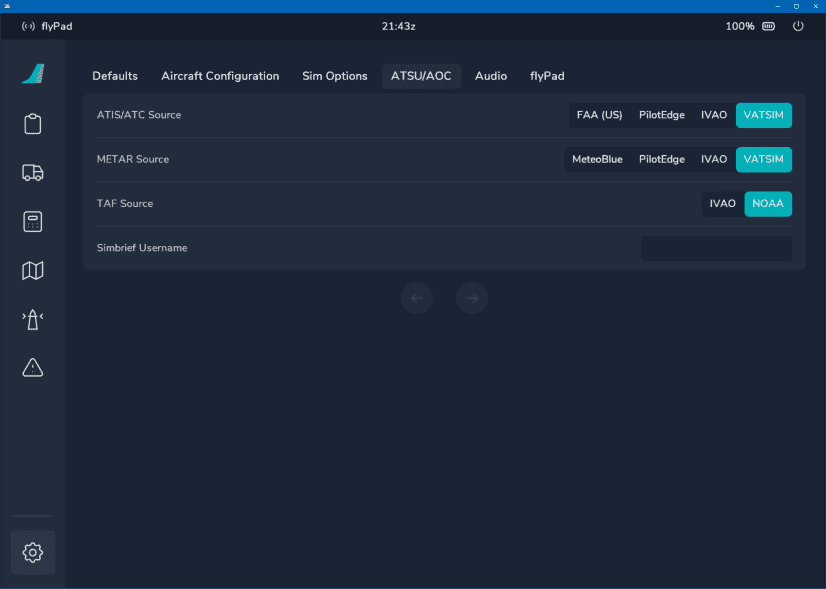
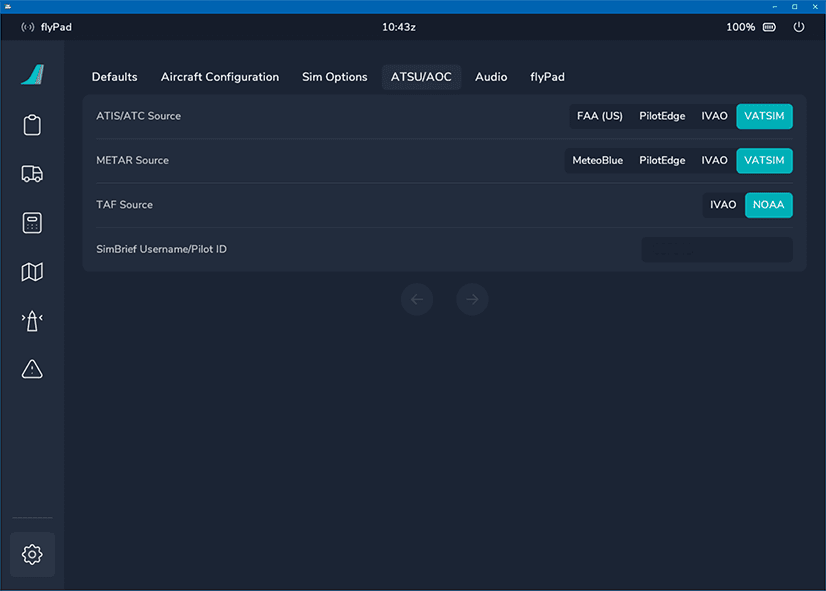
feat: simbrief integration guide (#224)
* feat: simbrief integration guide

Removed ... from beginner guide nav

Fixes from review

minor updates to simbrief.md page

Changed and moved images for simbrief.md

comment out simbrief MCDU setup

update feature-guides index.md

warning about msfs fuel and weights - simbrief.md

add simbrief MCDU fuel + w&b tutorial information

refactor: simbrief.md layout and typos

move simbrief integration bg -> dedicated feature guide

typo

Remove the note that usernames cannot contain spaces.

Not required any longer after PR.

Adding content to new simbrief guide

Adding new EFB Setup docs and links to new simbrief guide

Update to EFB guide->settings (simBrief Integration)

Adding content to new simbrief guide

New page for feature guide simBrief Integration

* add button to installation.md linking to simbrief.md

* highlight do not need to remain in pax boarding section

* Added custom css into extra.css for highlighting

* Revert "Added custom css into extra.css for highlighting"

This reverts commit cd34319f00e0d73f6ad6aec0761bb2aac8f98d81.

diff --git a/docs/fbw-a32nx/feature-guides/simbrief.md b/docs/fbw-a32nx/feature-guides/simbrief.md
@@ -1,0 +1,154 @@
+# SimBrief Integration
+
+## Flight Planning
+
+Flying IFR (Instrument Flight Rules) even in a simulation like Microsoft Flight Simulator always requires some level of flight planning.
+
+In addition to the obvious route planning there are several other aspects which are critical to any good flight plan:
+
+- Route Planning
+    - Origin and Destination
+    - Runways, SID and STAR
+    - Compliance with ATC Requirements
+    - Routing and Constraints
+- Fuel Calculation
+- Weather Forecast
+- Cost and Time Optimization
+
+See [Flight Planning](https://en.wikipedia.org/wiki/Flight_planning){target=new} on Wikipedia for more information.
+
+Microsoft Flight Simulator tries to offer a simple way to do route planning (World Map before starting a flight) however this falls short, especially for users wanting a more realistic experience for airliner flying.
+
+In real life airlines and pilots use dedicated software alongside various sources and services for creating their flight plans.
+
+In the world of flight simulation simBrief does all that for the users based on real word databases and sources. SimBrief provides on average ~40.000 flight plans to users each day and is the most commonly used tool for flight planning for non-professional flight simulation.
+
+It is absolutely possible to use the simBrief OFP (Operational Flight Plan) to configure and program the aircraft based on it without any special integration into the flight sim software or aircraft.
+
+But as in real world aircraft it is common in flight simulation aircraft to integrate these systems directly with the aircraft's flight management system to be able to import all the relevant planning data. This includes the route, altitudes, constraints, fuel, payload (passengers, cargo), and other data points.
+
+This is why FlyByWire has implemented our simBrief integration and will continue to improve this experience even further in the future.
+
+### Flight Planning with SimBrief
+
+This is best explained by simBrief itself - [simBrief User Guide](https://www.simbrief.com/system/guide.php){target=new}
+
+---
+
+## Using the flyPad simBrief Integration
+
+### Setup A32NX simBrief Integration
+
+See [Setup simBrief Integration](flyPad/settings.md#simbrief-integration)
+
+### Importing the simBrief OFP to the flyPad
+
+See [flyPad Guide - Load from simBrief](flyPad/dashboard.md#load-from-simbrief)
+
+See [flyPad Guide - OFP](flyPad/dispatch.md#ofp-page) on how to view the simBrief Operational Flight Plan.
+
+---
+
+## Using the FMS (MCDU) and simBrief Integration
+
+### Importing the simBrief OFP to the FMS (MCDU)
+
+We've included a quick method to have your simBrief OFP automatically loaded into the MCDU. Please do not select an arrival airport on the MSFS world menu otherwise the integration will not work.
+
+This portion of the guide assumes that you understand how to generate a simBrief OFP.
+
+<!--#### ^^SimBrief MCDU Setup^^
+
+Enter your simBrief username. Upon entering your username the MCDU will convert it into an ID number. Please ensure you have no special characters in your username OR use the ID number found before generating your OFP.
+
+* Click on `MCDU MENU`
+* Click on `OPTIONS`
+* Click on `AOC`
+* Click on `SIMBRIEF`-->
+
+#### ^^Request Data from simBrief^^
+
+* Return to `MCDU MENU`
+* Click on `ATSU`
+* Click on `AOC MENU`
+* Click on `INIT/PRESS`
+* Click on `INIT DATA REQ`
+
+![MCDU ATSU AOC INIT REQ](../../fbw-a32nx/assets/feature-guides/simbrief/mcdu2.png "MCDU ATSU AOC INIT REQ"){loading=lazy}
+
+This will prepare the MCDU to input the flight plan.
+
+#### ^^Initialize Flight Plan^^
+
+Head over to the `INIT A` page.
+
+* Select `INIT REQUEST` by pressing LSK2R
+
+This will load your flight plan from simBrief directly into the MCDU
+
+![MCDU INIT A](../../fbw-a32nx/assets/feature-guides/simbrief/mcdu1b.png "MCDU INIT A"){loading=lazy}
+
+To learn how to set up the MCDU you can read the [**^^F^^**LIGHT PLAN](../../pilots-corner/beginner-guide/preparing-mcdu.md#flight-plan) section in our beginner's guide.
+
+### Loading Fuel and Weight
+
+!!! info "Customizing Fuel and Weight"
+
+    **NOTE:** There may be slight differences when using our Stable version vs. Development verson. Additionally these settings may be moved to our EFB in the future.    
+
+    You can adjust the amount of fuel and weight manually on these pages. Type in your desired amounts and press the relevant LSK to input it into that field. 
+
+    When you are happy with your changes press `LOAD` using LSK5L to load your custom fuel and weight.
+
+    !!! danger "Please do not touch values in MSFS Fuel & Weights window in the toolbar."
+
+As described in the previous section return to the AOC menu in MCDU menu.
+
+* Click on `MCDU MENU`
+* Click on `ATSU`
+* Click on `AOC MENU`
+* Click on `PERF/W&B`
+
+#### ^^Fuel^^
+
+!!! info "flyPad Fuel Loading"
+    You may also perform fuel loading via our EFB which has a great UI to see the status of fuel tanks and other options. [Guide Here](flyPad/dispatch.md#fuel-page)
+
+![MCDU ATSU AOC PERF/W&B](../../fbw-a32nx/assets/feature-guides/simbrief/mcdu3.png "MCDU ATSU AOC PERF/W&B"){loading=lazy}
+
+You are presented with the `Fuel Page` first then the `Weights and Balance` page. On the first page you can automatically load your fuel.
+
+* Press LSK5L to instantly load your planned simBrief fuel. (The load button will flash momentarily).
+* You can verify fuel has loaded by looking at your upper ECAM FOB.
+
+Using the horizontal slew keys you can switch to the weights and balance page.
+
+#### ^^Weights and Balance^^
+
+In our development version we have introduced a new flight model paired with a new weight and balance payload method that incorporates seat rows and the correct center of gravity. Please use the correct instructions for your corresponding installed version.
+
+??? info "Development"
+    Once on `W&B` page (2/2) you should see the following image even if you have pressed OFP REQUEST in a previous section.
+
+    ![W&B 2](../assets/feature-guides/simbrief/wb2.png){width=50% loading=lazy}
+
+    You will have to request OFP again for this specific page and your `W&B` page will show total passengers and passengers per row awaiting boarding.
+
+    ![W&B 3](../assets/feature-guides/simbrief/wb3.png){width=50% loading=lazy}
+
+    You can now start boarding by selecting LSK6L (the indication will change from `START` to `STOP` in yellow) and watch as the passengers board the aircraft. 
+
+    ==**You do not need to remain on this page as boarding continues.**==
+
+    ![W&B 4](../assets/feature-guides/simbrief/wb4.png){width=40%} ![W&B 5](../assets/feature-guides/simbrief/wb5.png){width=40% loading=lazy}
+
+    Once boarding has completed all rows and total pax should turn green and the boarding indication returns to `START`. Verify your ZFW on this screen and check your lower ECAM that GW has been updated. 
+
+    ![W&B 6](../assets/feature-guides/simbrief/wb6.png){width=90% loading=lazy}
+
+??? info "Stable"
+    Once on the `W&B` page (2/2) you can adjust payload here or accept the numbers provided to you via your simBrief OFP.
+
+    - Press LSK5L to instantly load your planned payload and pax.
+    - You can verify the weight has changed by looking at the lower ECAM towards the lower right-hand side.
+

diff --git a/docs/pilots-corner/beginner-guide/preparing-mcdu.md b/docs/pilots-corner/beginner-guide/preparing-mcdu.md
@@ -301,6 +301,8 @@ On this page, we can input our zero fuel weight (ZFW) and zero fuel weight cente
 !!! warning "Important Info"
     Fuel and payload have to be set in the simulator before ZFW/CG for the end result to be correct. (Unless you want to use the default fuel and weight).
 
+    **NOTE:** It is advisable to **not** use the MSFS Fuel Panel to load fuel or weights. 
+
     To learn how see [Load Fuel and Payload](#load-fuel-and-payload) in the simBrief integration below.
 
 The A32NX can auto populate this information.
@@ -397,65 +399,8 @@ The performance page should now look like this:
 
 ## A32NX simBrief Integration
 
-We've included a quick method to have your simBrief OFP automatically loaded into the MCDU. Please do not select an arrival airport on the MSFS world menu otherwise the integration will not work.
+This section has been moved to our dedicated [simBrief Integration](../../fbw-a32nx/feature-guides/simbrief.md#importing-the-simbrief-ofp-to-the-fms-mcdu) feature guide.
 
-This portion of the guide assumes that you understand how to generate a simBrief OFP.
-
-### ^^SimBrief MCDU Setup^^
-
-Enter your simBrief username. Upon entering your username the MCDU will convert it into an ID number. Please ensure you have no special characters in your username OR use the ID number found before generating your OFP.
-
-* Click on `MCDU MENU`
-* Click on `OPTIONS`
-* Click on `AOC`
-* Click on `SIMBRIEF`
-
-### ^^Request Data from simBrief^^
-
-* Return to `MCDU MENU`
-* Click on `ATSU`
-* Click on `AOC MENU`
-* Click on `INIT/PRESS`
-* Click on `INIT DATA REQ`
-
-![mcdu2](../assets/beginner-guide/mcdu/mcdu2.png){loading=lazy}
-
-This will prepare the MCDU to input the flight plan.
-
-### ^^Load Fuel and Payload^^
-
-Go back to the AOC menu.
-
-* Click on `PERF/W&B`
-
-![mcdu3](../assets/beginner-guide/mcdu/mcdu3.png){loading=lazy}
-
-Here you can automatically load your fuel + passenger / cargo weights. You are presented with the `Fuel Page` first then the `Weights and Balance` page.
-
-* Press LSK5L to instantly load your planned simBrief fuel. (The load button will flash momentarily).
-* You can verify fuel has loaded by looking at your upper ECAM FOB.
-
-Using the horizontal slew keys you can switch to the weights and balance page.
-
-* Again press LSK5L to instantly load your planned payload and pax.
-* You can verify the weight has changed by looking at the lower ECAM towards the lower right hand side.
-
-!!! info "Customizing Fuel and Weights"
-
-    You can adjust the amount of fuel or payload weight manually on these pages. Type in your desired amounts and press the relevant LSK to input it into that field. 
-
-    When you are happy with your changes press `LOAD` using LSK5L to load your custom fuel and weight.
-
-### ^^Initialize Flight Plan^^
-
-Head over to the `INIT A` page.
-
-* Select `INIT REQUEST` by pressing LSK2R
-
-This will load your flight plan from simBrief directly into the MCDU
-
-![mcdu1b](../assets/beginner-guide/mcdu/mcdu1b.png){loading=lazy}
-
-Now continue setting up the MCDU as described in the [**^^F^^**LIGHT PLAN](#flight-plan) section above.
+---
 
 After setting up the MCDU continue with [Engine Start and Taxi](engine-start-taxi.md)

diff --git a/docs/fbw-a32nx/feature-guides/flyPad/settings.md b/docs/fbw-a32nx/feature-guides/flyPad/settings.md
@@ -17,7 +17,6 @@ Settings for various default values of the aircraft.
     <span class="imagesub">Click on the menu icons in this image to see other flyPad pages.</span>
 </div>
 
-
 ### Usage
 
 - Thrust Reduction Height (ft):
@@ -43,7 +42,6 @@ Settings for A32NX aircraft configuration.
     <a href="../settings/">    <div class="imagemap" style="position: absolute; left: 1.3%; top: 84.1%; width: 5.8%; height: 7.6%;"><span class="imagemapname">Settings</span></div></a>
     <span class="imagesub">Click on the menu icons in this image to see other flyPad pages.</span>
 </div>
-
 
 ### Usage:
 
@@ -98,7 +96,6 @@ Settings for integrations with various data and information sources.
     <span class="imagesub">Click on the menu icons in this image to see other flyPad pages.</span>
 </div>
 
-
 ### Usage
 
 - ATIS/ATC Source:
@@ -108,9 +105,26 @@ Settings for integrations with various data and information sources.
     - MeteoBlue is the weather service the sim uses as well.
 - TAF Source:
     - Choose which Terminal Area Forecast (TAF) service should be used.
-- Simbrief Username:
-    - Enter your simBrief username. If you username has spaces omit them as otherwise the authentication will fail.
-    - Example: "My Username" ==> enter "MyUsername".
+- Simbrief Username/Pilot ID
+    - see next chapter
+
+### simBrief Integration
+
+Before you can use the A32NX simBrief Integration you need to provide your simBrief account details.
+
+- Simbrief Username/Pilot ID:
+    - Enter your simBrief username or Pilot ID.
+
+        ![simBrief Account field](../../assets/flypad/simbrief-account-field.png "simBrief Account field")
+
+    - If you entered a wrong username or Pilot ID a red error message will be displayed.
+
+        ![simBrief Account Field Error](../../assets/flypad/simbrief-account-field-error.png "simBrief Account Field Error")
+
+To get your simBrief username or Pilot ID you can go to your simBrief Account settings and open "Simbrief Data".
+
+![simBrief Account Data](../../assets/flypad/simbrief-account-data.png "simBrief Account Data")
+
 
 ## Audio
 

diff --git a/docs/fbw-a32nx/installation.md b/docs/fbw-a32nx/installation.md
@@ -219,3 +219,7 @@ The FlyByWire Simulations simBrief airframe with correct weights is available be
 
 Pilot ID can be found in the Optional Entries section of the Dispatch Options page.
 
+To learn how to use the various features related to our simBrief integration see the page below.
+
+[SimBrief Integration Guide](feature-guides/simbrief.md){.md-button}
+

diff --git a/docs/fbw-a32nx/feature-guides/index.md b/docs/fbw-a32nx/feature-guides/index.md
@@ -9,5 +9,5 @@ Topics:
 - [Throttle Calibration](flyPad/throttle-calibration.md)
 - [Autopilot and fly-by-wire](autopilot-fbw.md)
 - [MCDU Keyboard Support](mcdu-keyboard.md)
-
-
+- [SimBrief Integration](simbrief.md)
+- [flyPad EFB](flyPad/index.md)
